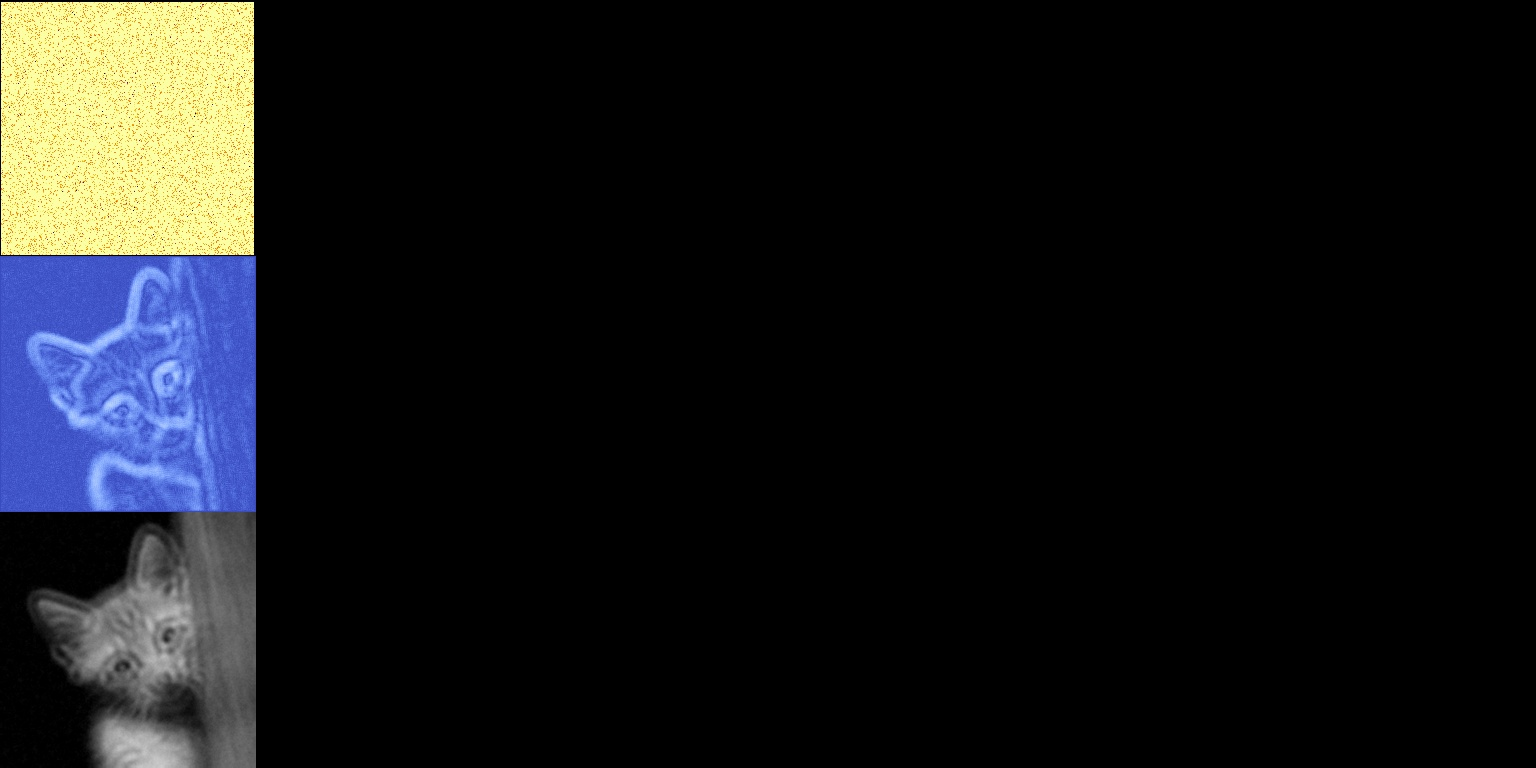
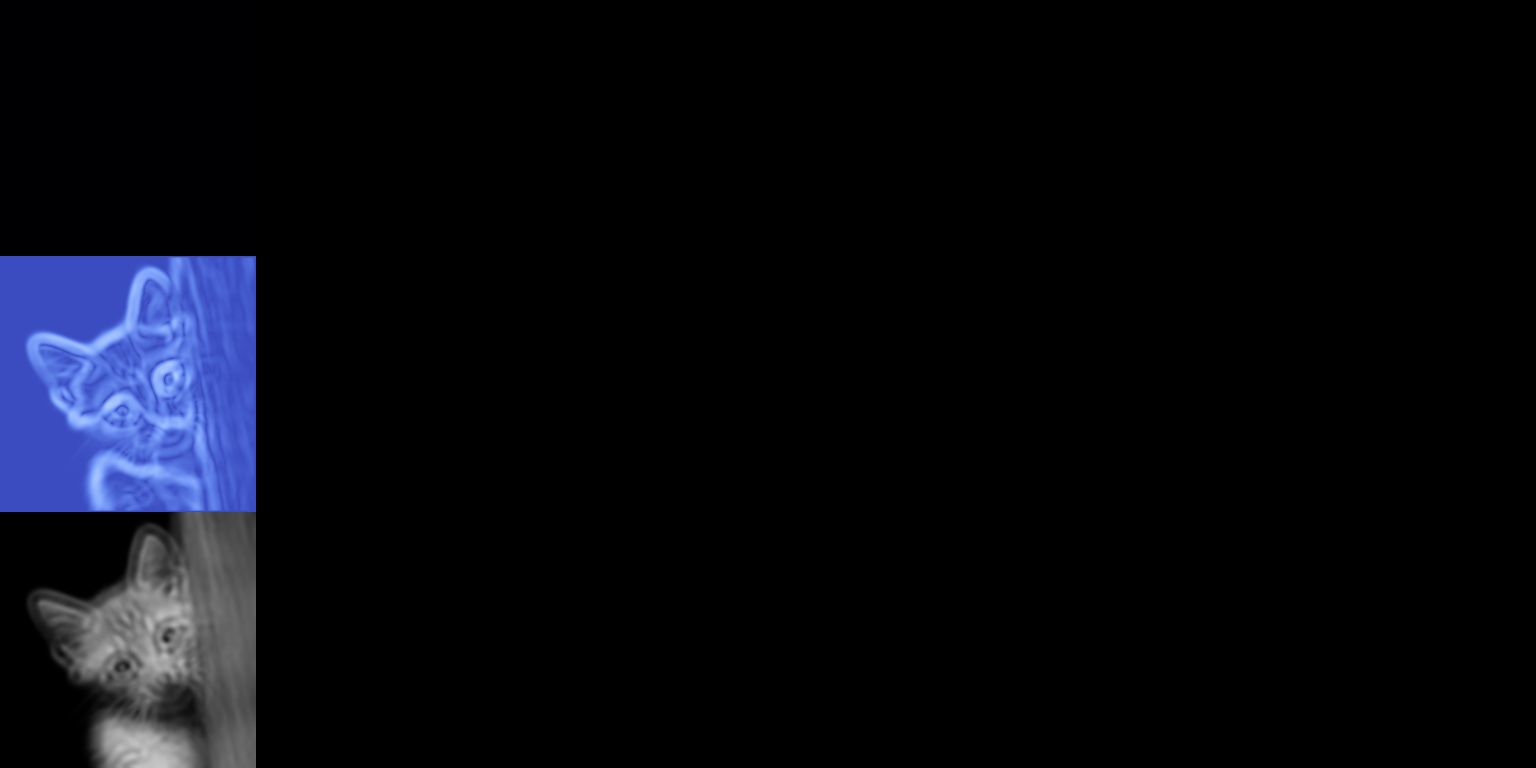
Save current code status on jmeixner

Changed region(s): [[0.0, 0.0, 0.1875, 0.3438]]

diff --git a/numerical_solvers/solvers/LBM_SolverBase.py b/numerical_solvers/solvers/LBM_SolverBase.py
@@ -45,7 +45,7 @@ class LBM_SolverBase:
         # noise = magnitude*get_gaussian_noise(mu,variance)
         # self.Force[None] = ti.Vector([noise[0], noise[1]])
         
-        for i, j in ti.ndrange((1, self.nx - 2), (1, self.ny - 2)):
+        for i, j in ti.ndrange((1, self.nx - 1), (1, self.ny - 1)):
             noise = magnitude*get_gaussian_noise(mu,variance)
             self.Force[i,j] = ti.Vector([noise[0], noise[1]])
             
@@ -54,7 +54,7 @@ class LBM_SolverBase:
         # noise = magnitude*get_gaussian_noise(mu,variance)
         # self.Force[None] = ti.Vector([noise[0], noise[1]])
         
-        for i, j in ti.ndrange((1, self.nx - 2), (1, self.ny - 2)):
+        for i, j in ti.ndrange((1, self.nx - 1), (1, self.ny - 1)):
             noise = magnitude*get_gaussian_noise(mu,variance)
             self.vel[i,j] = ti.Vector([noise[0], noise[1]])
                    

diff --git a/numerical_solvers/solvers/LBM_NS_Solver.py b/numerical_solvers/solvers/LBM_NS_Solver.py
@@ -24,7 +24,7 @@ class LBM_NS_Solver(LBM_SolverBase):
         # force_numpy = np.stack((u_spec, v_spec), axis=-1)  # Shape becomes (128, 128, 2)
         # self.Force.from_numpy(force_numpy)
         
-        self.init_gaussian_force_field(0*1E-3, 0, 1)
+        self.init_gaussian_force_field(0*1E-2, 0, 1)
         self.init_fields()
                    
     def solve(self, iterations):
@@ -38,7 +38,7 @@ class LBM_NS_Solver(LBM_SolverBase):
             # turb_numpy = np.stack((u_turb, v_turb), axis=-1)  # Shape becomes (128, 128, 2)
             # self.Force.from_numpy(turb_numpy)
             
-            self.init_gaussian_force_field(1E-2, 0, 1)
+            # self.init_gaussian_force_field(1E-3, 0, 1)
             # self.apply_bb()
             self.apply_nee_bc()
             self.iterations_counter = self.iterations_counter +1

diff --git a/numerical_solvers/visualization/CanvasPlotter.py b/numerical_solvers/visualization/CanvasPlotter.py
@@ -361,7 +361,9 @@ class CanvasPlotter:
             
 
         self.heatmap_force_plotter.add_spectrum(force_cpu[:,:,0], force_cpu[:,:,1], self.solver.iterations_counter)
-        if self.is_heatmap_checked:
+        
+        
+        if self.is_heatmap_checked and not np.allclose(force_cpu, np.zeros_like(force_cpu)):
             
             heatmap_force = self.heatmap_force_plotter.plot_heatmap_rgba()
         else:

diff --git a/numerical_solvers/solvers/LBM_ADE_Solver.py b/numerical_solvers/solvers/LBM_ADE_Solver.py
@@ -43,7 +43,7 @@ class LBM_ADE_Solver(LBM_SolverBase):
             
             # self.apply_bb()
             self.apply_nee_bc()
-            self.iterations_counter = self.iterations_counter +1
+            self.iterations_counter = self.iterations_counter + 1
         
         
         if self.iterations_counter % 10 == 0:

diff --git a/numerical_solvers/runners/taichi_lbm_NS_picture_diffuser.py b/numerical_solvers/runners/taichi_lbm_NS_picture_diffuser.py
@@ -62,7 +62,7 @@ if __name__ == '__main__':
 
     domain_size = (1.0, 1.0)
     grid_size = np_gray_image.shape
-    turb_intensity = 0 #1E-4
+    # turb_intensity = 0 #1E-4
     noise_limiter = (-1E-3, 1E-3)
     dt_turb = 1E-3 
 
